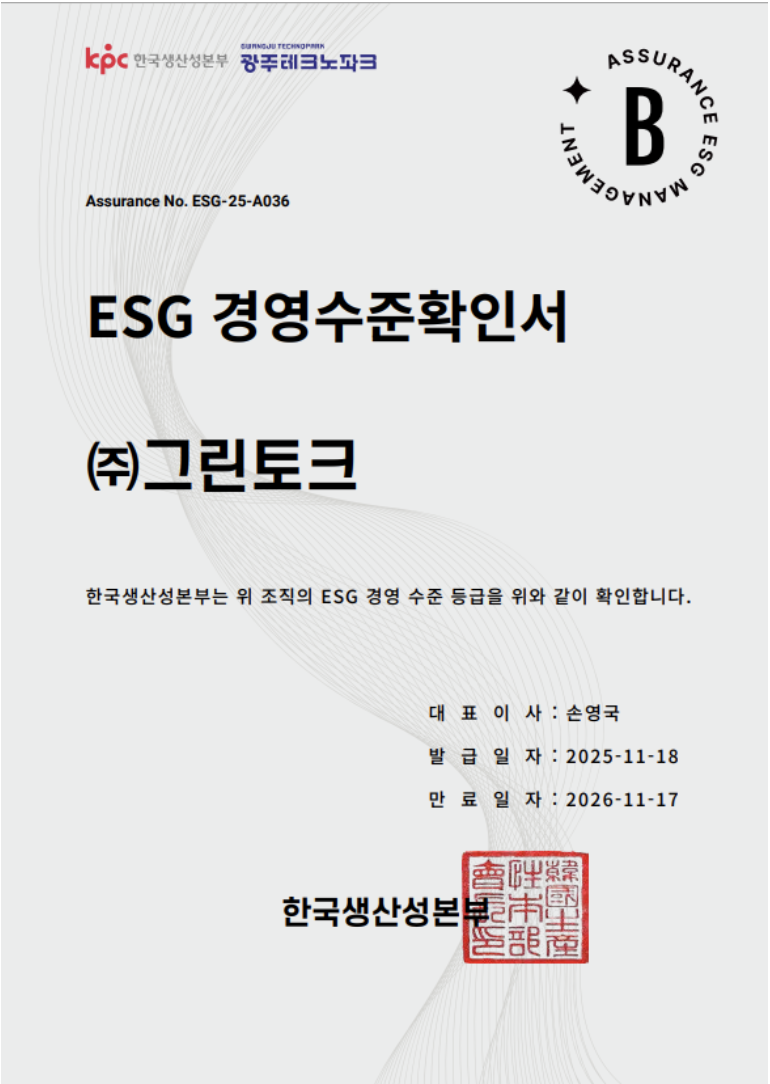
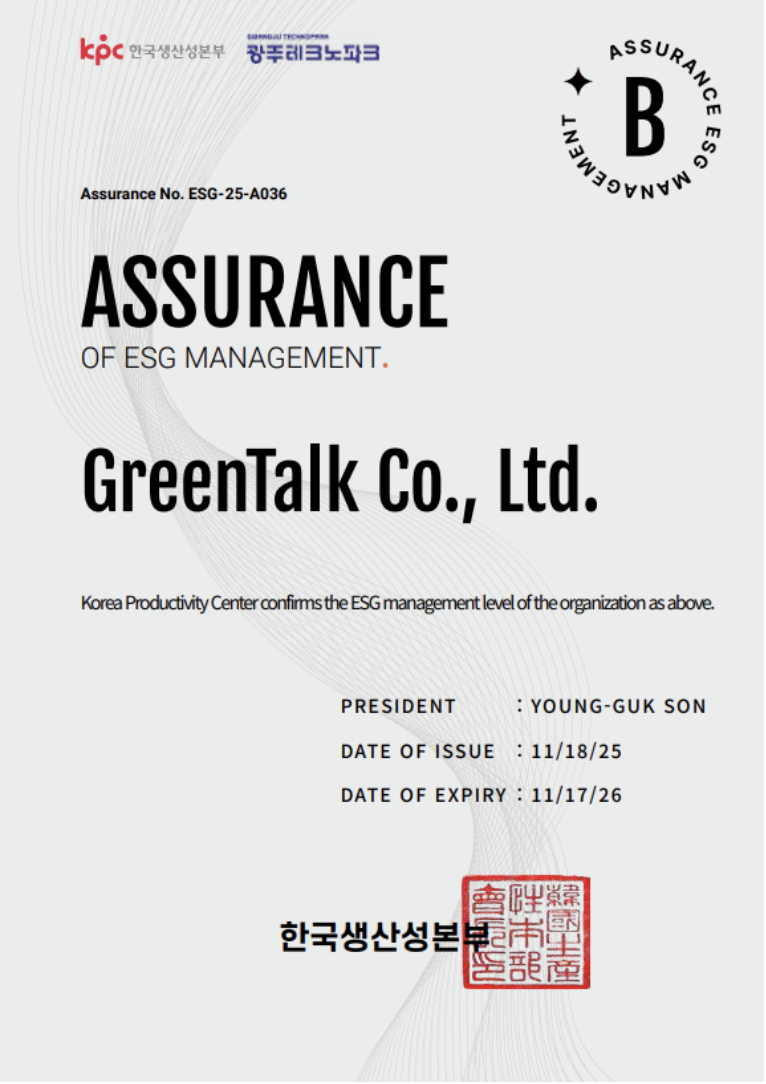
Refine headers certifications and product layouts

diff --git a/founding-values.html b/founding-values.html
@@ -250,9 +250,7 @@
 </div>
 </div>
 </div>
-<a class="flex items-center flex-col" href="/login">
-<span class="material-symbols-outlined text-on-surface-variant hover:text-primary cursor-pointer transition-colors" data-icon="account_circle">account_circle</span><span class="font-label-mono text-[10px] uppercase tracking-tighter opacity-70 mt-1">LOGIN</span>
-</a>
+
 </div>
 </div>
 </nav>
@@ -271,9 +269,6 @@
 </section><section class="pb-32 bg-[#121318] border-b border-white/5 pt-20"><div class="px-8 lg:px-16 max-w-[1280px] mx-auto"><div class="text-center mb-20 fade-up" style="animation-play-state: running;"><span class="text-[#97D302] font-['Geist'] tracking-[0.1em] text-[14px] font-medium uppercase mb-4 block">Founded Values</span><h2 class="text-[48px] font-extrabold text-[#FFFFFF] tracking-[-0.02em] leading-tight">GREEN TALK’s Founding Values</h2></div><div class="grid grid-cols-1 md:grid-cols-3 gap-8"><div class="p-10 bg-[rgba(26,27,33,0.5)] border border-[rgba(255,255,255,0.05)] rounded-[8px] hover:border-[#97D302]/50 transition-all duration-300 fade-up group text-center" style="animation-play-state: running;"><span class="material-symbols-outlined text-[48px] text-[#97D302] mb-6 block transform group-hover:scale-110 transition-transform mx-auto">group</span><h3 class="text-white text-3xl lg:text-4xl font-bold tracking-tight mb-4">People</h3></div><div class="p-10 bg-[rgba(26,27,33,0.5)] border border-[rgba(255,255,255,0.05)] rounded-[8px] hover:border-[#97D302]/50 transition-all duration-300 fade-up delay-100 group text-center" style="animation-play-state: running;"><span class="material-symbols-outlined text-[48px] text-[#97D302] mb-6 block transform group-hover:scale-110 transition-transform mx-auto">forum</span><h3 class="text-white text-3xl lg:text-4xl font-bold tracking-tight mb-4">Communication</h3></div><div class="p-10 bg-[rgba(26,27,33,0.5)] border border-[rgba(255,255,255,0.05)] rounded-[8px] hover:border-[#97D302]/50 transition-all duration-300 fade-up delay-200 group text-center" style="animation-play-state: running;"><span class="material-symbols-outlined text-[48px] text-[#97D302] mb-6 block transform group-hover:scale-110 transition-transform mx-auto">diversity_3</span><h3 class="text-white text-3xl lg:text-4xl font-bold tracking-tight mb-4">Coexistence</h3></div></div><div class="mt-12 p-8 bg-[rgba(26,27,33,0.5)] border border-[rgba(255,255,255,0.05)] rounded-[8px] fade-up text-[#A9A7B1] text-[13px] md:text-[15px] leading-relaxed font-normal" style="animation-play-state: running;"><div class="text-center"><div class=""><div><br></div>By recreating a wide range of on-course slopes on a putting mat, we make smarter and more realistic practice possible.</div><div class="">Our smart golf ball visualizes ball movement in a mobile app, providing measurable insights for more precise putting practice.</div><div><br></div><div class="">GINOVO, the putting-solution brand of GREEN TALK, is committed to pioneering a better practice experience.</div><div class="">We will continue working with golfers to improve both putting performance and everyday enjoyment of the game.</div><div class="">Thank you.</div></div><div class=""><br></div><p></p></div></div></section>
 <!-- About Section -->
 <!-- Founder's Vision Section -->
-<section class="w-full h-[600px] overflow-hidden relative">
-<div class="absolute inset-0 bg-black/20"></div>
-</section>
 <!-- Core Values Section -->
 <!-- Certifications & Awards Section -->
 </main>

diff --git a/location.html b/location.html
@@ -171,9 +171,7 @@
 </div>
 </div>
 </div>
-<a class="flex items-center flex-col" href="/login">
-<span class="material-symbols-outlined text-on-surface-variant hover:text-primary cursor-pointer transition-colors" data-icon="account_circle">account_circle</span><span class="font-label-mono text-[10px] uppercase tracking-tighter opacity-70 mt-1">LOGIN</span>
-</a>
+
 </div>
 </div>
 </nav>
@@ -231,7 +229,7 @@
               <div class="text-[#97D302] font-['Geist'] tracking-[0.2em] text-sm font-bold mb-4">02</div>
               <h3 class="text-white text-3xl lg:text-4xl font-bold tracking-tight mb-4">Contact</h3>
               <p class="text-[#A9A7B1] text-[13px] md:text-[15px] leading-relaxed font-normal max-w-xl">
-                062-716-0995
+                +82-62-716-0995
               </p>
               <p class="text-[#A9A7B1] text-[13px] md:text-[15px] leading-relaxed font-normal max-w-xl mt-2">
                 9:00 AM–5:00 PM | Lunch 12:00–1:00 PM

diff --git a/about.html b/about.html
@@ -270,9 +270,7 @@
 </div>
 </div>
 </div>
-<a class="flex items-center flex-col" href="/login">
-<span class="material-symbols-outlined text-on-surface-variant hover:text-primary cursor-pointer transition-colors" data-icon="account_circle">account_circle</span><span class="font-label-mono text-[10px] uppercase tracking-tighter opacity-70 mt-1">LOGIN</span>
-</a>
+
 </div>
 </div>
 </nav>

diff --git a/design-awards.html b/design-awards.html
@@ -232,9 +232,7 @@
 </div>
 </div>
 </div>
-<a class="flex items-center flex-col" href="/login">
-<span class="material-symbols-outlined text-on-surface-variant hover:text-primary cursor-pointer transition-colors" data-icon="account_circle">account_circle</span><span class="font-label-mono text-[10px] uppercase tracking-tighter opacity-70 mt-1">LOGIN</span>
-</a>
+
 </div>
 </div>
 </nav>

diff --git a/faq.html b/faq.html
@@ -212,9 +212,7 @@
 </div>
 </div>
 </div>
-<a class="flex items-center flex-col" href="/login">
-<span class="material-symbols-outlined text-on-surface-variant hover:text-primary cursor-pointer transition-colors" data-icon="account_circle">account_circle</span><span class="font-label-mono text-[10px] uppercase tracking-tighter opacity-70 mt-1">LOGIN</span>
-</a>
+
 </div>
 </div>
 </nav>

diff --git a/history.html b/history.html
@@ -270,9 +270,7 @@
 </div>
 </div>
 </div>
-<a class="flex items-center flex-col" href="/login">
-<span class="material-symbols-outlined text-on-surface-variant hover:text-primary cursor-pointer transition-colors" data-icon="account_circle">account_circle</span><span class="font-label-mono text-[10px] uppercase tracking-tighter opacity-70 mt-1">LOGIN</span>
-</a>
+
 </div>
 </div>
 </nav>

diff --git a/index.html b/index.html
@@ -212,9 +212,7 @@
 </div>
 </div>
 </div>
-<a class="flex items-center flex-col" href="/login">
-<span class="material-symbols-outlined text-on-surface-variant hover:text-primary cursor-pointer transition-colors" data-icon="account_circle">account_circle</span><span class="font-label-mono text-[10px] uppercase tracking-tighter opacity-70 mt-1">LOGIN</span>
-</a>
+
 </div>
 </div>
 </nav>

diff --git a/inquiry.html b/inquiry.html
@@ -212,9 +212,7 @@
 </div>
 </div>
 </div>
-<a class="flex items-center flex-col" href="/login">
-<span class="material-symbols-outlined text-on-surface-variant hover:text-primary cursor-pointer transition-colors" data-icon="account_circle">account_circle</span><span class="font-label-mono text-[10px] uppercase tracking-tighter opacity-70 mt-1">LOGIN</span>
-</a>
+
 </div>
 </div>
 </nav>

diff --git a/news.html b/news.html
@@ -270,9 +270,7 @@
 </div>
 </div>
 </div>
-<a class="flex items-center flex-col" href="/login">
-<span class="material-symbols-outlined text-on-surface-variant hover:text-primary cursor-pointer transition-colors" data-icon="account_circle">account_circle</span><span class="font-label-mono text-[10px] uppercase tracking-tighter opacity-70 mt-1">LOGIN</span>
-</a>
+
 </div>
 </div>
 </nav>

diff --git a/notice.html b/notice.html
@@ -211,9 +211,7 @@
 </div>
 </div>
 </div>
-<a class="flex items-center flex-col" href="/login">
-<span class="material-symbols-outlined text-on-surface-variant hover:text-primary cursor-pointer transition-colors" data-icon="account_circle">account_circle</span><span class="font-label-mono text-[10px] uppercase tracking-tighter opacity-70 mt-1">LOGIN</span>
-</a>
+
 </div>
 </div>
 </nav>

diff --git a/slope-putting-mat.html b/slope-putting-mat.html
@@ -216,9 +216,7 @@
 </div>
 </div>
 </div>
-<a class="flex items-center flex-col" href="/login">
-<span class="material-symbols-outlined text-on-surface-variant hover:text-primary cursor-pointer transition-colors" data-icon="account_circle">account_circle</span><span class="font-label-mono text-[10px] uppercase tracking-tighter opacity-70 mt-1">LOGIN</span>
-</a>
+
 </div>
 </div>
 </nav>

diff --git a/sloping-putting-mat.html b/sloping-putting-mat.html
@@ -215,9 +215,7 @@
 </div>
 </div>
 </div>
-<a class="flex items-center flex-col" href="/login">
-<span class="material-symbols-outlined text-on-surface-variant hover:text-primary cursor-pointer transition-colors" data-icon="account_circle">account_circle</span><span class="font-label-mono text-[10px] uppercase tracking-tighter opacity-70 mt-1">LOGIN</span>
-</a>
+
 </div>
 </div>
 </nav>
